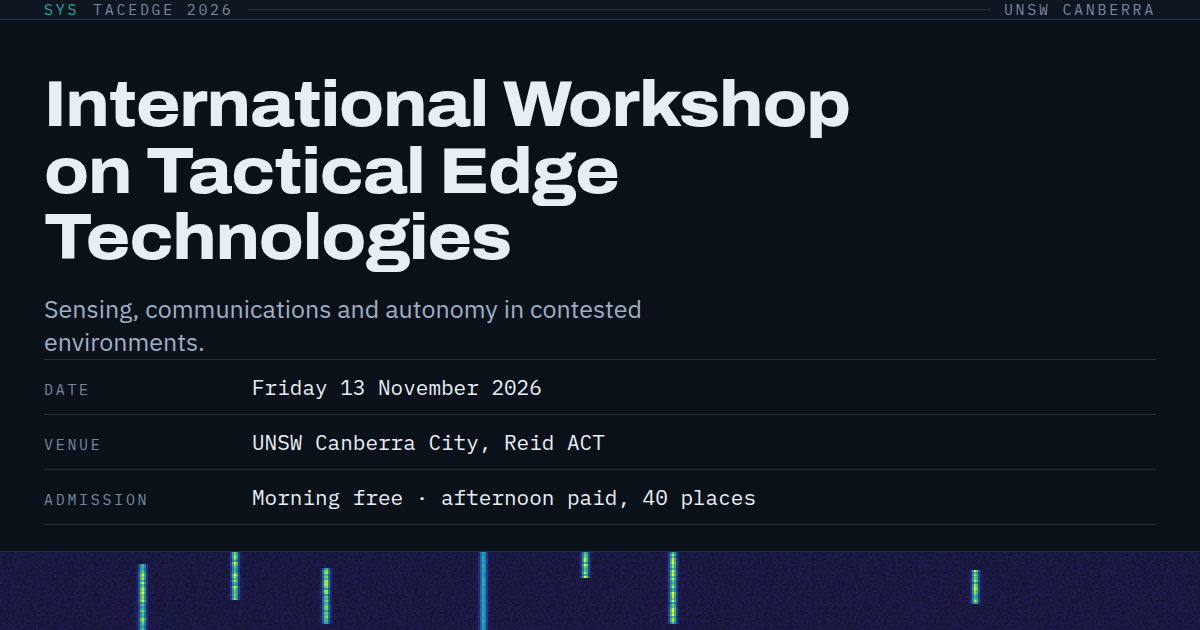
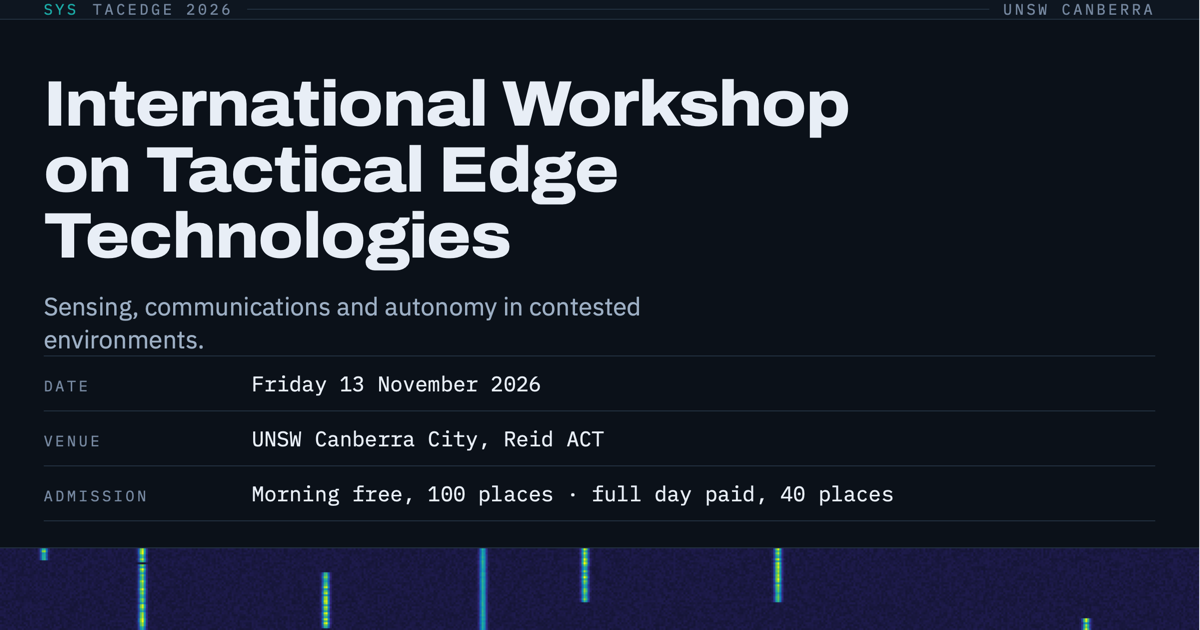
Match the Eventbrite listing: full-day ticket, places, address, 08:30 start

diff --git a/index.html b/index.html
@@ -13,7 +13,7 @@
 <meta property="og:image" content="https://tacedge.org/img/og.png">
 <meta property="og:image:width" content="1200">
 <meta property="og:image:height" content="630">
-<meta property="og:image:alt" content="TacEdge 2026 — International Workshop on Tactical Edge Technologies. Friday 13 November 2026, UNSW Canberra City. Morning free, afternoon paid, 40 places.">
+<meta property="og:image:alt" content="TacEdge 2026 — International Workshop on Tactical Edge Technologies. Friday 13 November 2026, UNSW Canberra City. Morning free, 100 places; full day paid, 40 places.">
 <meta name="twitter:card" content="summary_large_image">
 <meta name="theme-color" content="#0B1119">
 <link rel="icon" href="img/favicon.svg" type="image/svg+xml">
@@ -324,7 +324,7 @@ a.btn{display:inline-block;text-decoration:none}
       <div class="f"><span class="k">Date</span><span class="v">Friday 13 November 2026</span></div>
       <div class="f"><span class="k">Venue</span><span class="v">UNSW Canberra City, Reid ACT</span></div>
       <div class="f"><span class="k">Format</span><span class="v">One day · in person only</span></div>
-      <div class="f"><span class="k">Admission</span><span class="v">Morning free · afternoon paid, 40 places</span></div>
+      <div class="f"><span class="k">Admission</span><span class="v">Morning free, 100 places · full day paid, 40 places</span></div>
     </div>
   </div>
 
@@ -340,7 +340,7 @@ a.btn{display:inline-block;text-decoration:none}
     <div class="two">
       <div>
         <p>Equipment in the field has to work with contested spectrum, intermittent links and whatever processing fits on the platform. The workshop covers methods that hold up under those constraints.</p>
-        <p>The morning is two keynotes and two sessions of short talks, free and open to everyone. The afternoon is three hands-on tutorials that every participant rotates through, paid and limited to 40 places.</p>
+        <p>The morning is two keynotes and two sessions of short talks, free and open to everyone. The afternoon is three hands-on tutorials that every participant rotates through. The tutorials are in addition to the talks: a paid ticket covers the whole day and is limited to 40 places.</p>
       </div>
       <div>
         <p>It is aimed at people who are not already specialists in these fields: Defence and defence-industry practitioners, researchers and students who want a working understanding of the state of the art and its open problems.</p>
@@ -361,7 +361,7 @@ a.btn{display:inline-block;text-decoration:none}
 </section>
 
 <section class="panel" id="programme">
-  <div class="panel-bar"><span class="id">02</span><h2>Programme</h2><span class="fill"></span><span class="rt">09:00–17:00 AEDT</span></div>
+  <div class="panel-bar"><span class="id">02</span><h2>Programme</h2><span class="fill"></span><span class="rt">08:30–17:00 AEDT</span></div>
   <div class="panel-body">
 
     <div class="tl-split" aria-hidden="true">
@@ -396,7 +396,7 @@ a.btn{display:inline-block;text-decoration:none}
       <span><i style="background:var(--bg-2);border:1px solid var(--rule)"></i>Break</span>
     </div>
 
-    <div class="sbar"><b>Morning</b><span class="fill"></span><span class="rt">Free · registration required</span></div>
+    <div class="sbar"><b>Morning</b><span class="fill"></span><span class="rt">Free · 100 places · registration required</span></div>
     <div class="rows">
       <div class="r br"><time>08:30</time><div class="what">Doors open</div><span class="dur"></span></div>
       <div class="r"><time>09:00</time><div class="what">Opening</div><span class="dur"></span></div>
@@ -408,7 +408,7 @@ a.btn{display:inline-block;text-decoration:none}
       <div class="r br g-break"><time>12:00</time><div class="what">Lunch</div><span class="dur">40 min</span></div>
     </div>
 
-    <div class="sbar"><b>Afternoon</b><span class="fill"></span><span class="rt">Paid · limited to 40</span></div>
+    <div class="sbar"><b>Afternoon</b><span class="fill"></span><span class="rt">Full-day ticket · limited to 40</span></div>
     <div class="rows">
       <div class="r g-tut"><time>12:40</time><div class="what">Hands-on tutorials, session 1<small>Three running in parallel</small></div><span class="dur">60 min</span></div>
       <div class="r br g-break"><time>13:40</time><div class="what">Changeover</div><span class="dur">10 min</span></div>
@@ -510,7 +510,7 @@ a.btn{display:inline-block;text-decoration:none}
     <p class="lede">In person only, in the centre of Canberra. Attendees are expected from Korea, Taiwan, the Philippines and Vietnam; international visitors should arrange visas early.</p>
 
     <div class="fields" style="max-width:900px">
-      <div class="f"><span class="k">Venue</span><span class="v">UNSW Canberra City<small>Constitution Avenue, Reid ACT</small></span></div>
+      <div class="f"><span class="k">Venue</span><span class="v">UNSW Canberra City<small>37 Constitution Avenue, Reid ACT</small></span></div>
       <div class="f"><span class="k">From the airport</span><span class="v">Roughly 15 minutes by car or taxi<small>Canberra Airport, domestic and limited international</small></span></div>
       <div class="f"><span class="k">Staying</span><span class="v">City-centre location<small>Close to Civic and Braddon accommodation</small></span></div>
       <div class="f"><span class="k">Adjacent event</span><span class="v"><a href="https://conference.unsw.edu.au/en/2026-australian-space-domain-awareness-space-traffic-management-conference">Australian SDA &amp; STM Conference</a>, 10–12 November<small>Same venue, immediately before</small></span></div>
@@ -525,20 +525,20 @@ a.btn{display:inline-block;text-decoration:none}
 <section class="panel" id="register">
   <div class="panel-bar"><span class="id">07</span><h2>Register</h2><span class="fill"></span><span class="rt">Registration opening soon</span></div>
   <div class="panel-body">
-    <p class="lede">The morning and the afternoon are booked separately. Take either, or both.</p>
+    <p class="lede">The morning talks are free. The afternoon tutorials are in addition to the talks: a paid ticket covers the whole day.</p>
 
     <div class="fields" style="max-width:880px">
-      <div class="f"><span class="k">Morning</span><span class="v">Keynotes and short talks<small>Free. Registration still required.</small></span><span class="s">Opening soon</span></div>
-      <div class="f"><span class="k">Afternoon</span><span class="v">All three hands-on tutorials, in rotation<small>Limited to 40 participants.</small></span><span class="s">Opening soon</span></div>
+      <div class="f"><span class="k">Morning only</span><span class="v">Keynotes and short talks<small>Free. Registration still required.</small></span><span class="s">Opening soon</span></div>
+      <div class="f"><span class="k">Full day</span><span class="v">The talks, then all three hands-on tutorials<small>Paid. Limited to 40 participants.</small></span><span class="s">Opening soon</span></div>
     </div>
 
-    <p class="prov" style="margin-top:30px">Afternoon fee · AUD, GST inclusive</p>
+    <p class="prov" style="margin-top:30px">Full-day fee · AUD, GST inclusive</p>
     <div class="fields" style="margin-top:10px;max-width:520px">
       <div class="f"><span class="k">Domestic students</span><span class="v">$150</span></div>
       <div class="f"><span class="k">International or industry</span><span class="v">$300</span></div>
     </div>
 
-    <p style="color:var(--ink-2);max-width:64ch;margin:24px 0 0">Both tickets go through UNSW&rsquo;s Eventbrite page. Payment is by Eventbrite only; invoices and bank transfers are not accepted. Registration is subject to the <a href="https://www.events.unsw.edu.au/ticketing-terms-conditions">UNSW ticketing terms and conditions</a>.</p>
+    <p style="color:var(--ink-2);max-width:64ch;margin:24px 0 0">Registration is through UNSW&rsquo;s Eventbrite page. Payment is by Eventbrite only; invoices and bank transfers are not accepted. Registration is subject to the <a href="https://www.events.unsw.edu.au/ticketing-terms-conditions">UNSW ticketing terms and conditions</a>.</p>
 
     <p style="color:var(--ink-2);max-width:64ch;margin:18px 0 0">Registration is not yet open. Email us and we will let you know when it opens.</p>
 
@@ -549,7 +549,7 @@ a.btn{display:inline-block;text-decoration:none}
 
 <footer class="status">
   <span>TacEdge 2026 · UNSW Canberra City, Reid ACT</span>
-  <span>13 November 2026 · 09:00–17:00 AEDT</span>
+  <span>13 November 2026 · 08:30–17:00 AEDT</span>
   <span>Artem Lensky · <a href="mailto:a.lenskiy@unsw.edu.au">a.lenskiy@unsw.edu.au</a></span>
 </footer>
 

diff --git a/img/og-source.html b/img/og-source.html
@@ -35,7 +35,7 @@ canvas{display:block;width:1200px;height:118px}
   <div class="fields">
     <div class="f"><span class="k">Date</span><span class="v">Friday 13 November 2026</span></div>
     <div class="f"><span class="k">Venue</span><span class="v">UNSW Canberra City, Reid ACT</span></div>
-    <div class="f"><span class="k">Admission</span><span class="v">Morning free · afternoon paid, 40 places</span></div>
+    <div class="f"><span class="k">Admission</span><span class="v">Morning free, 100 places · full day paid, 40 places</span></div>
   </div>
 </div>
 <div class="fall"><canvas id="fall" width="1200" height="118"></canvas></div>
